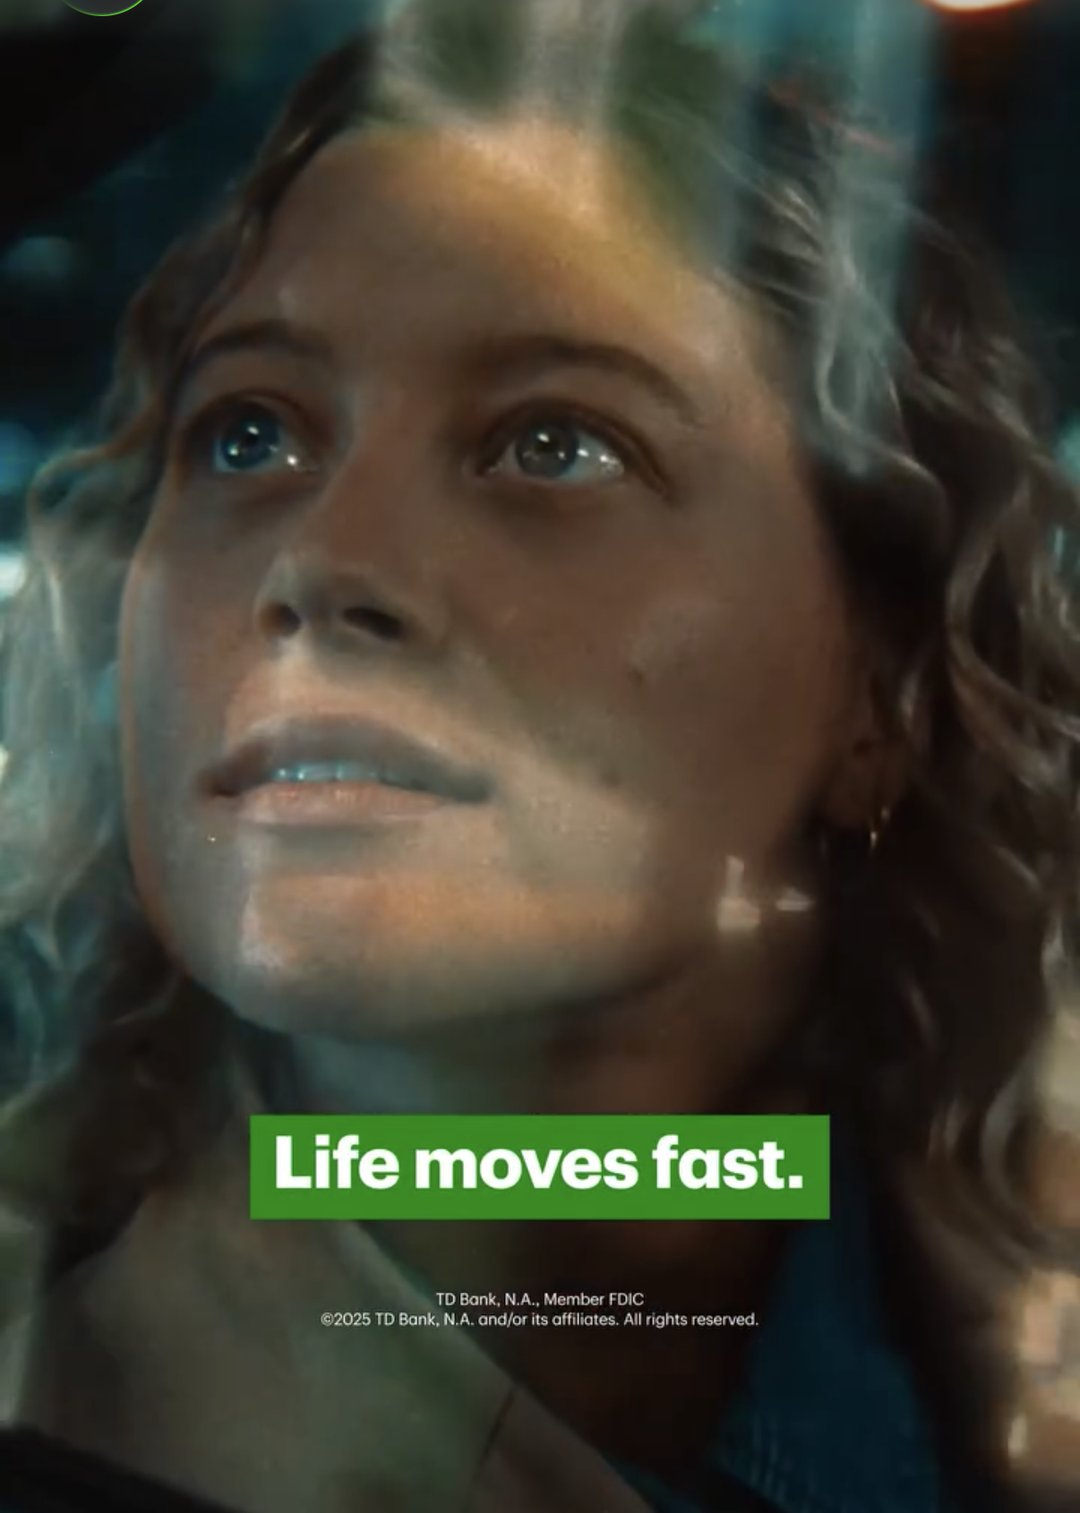
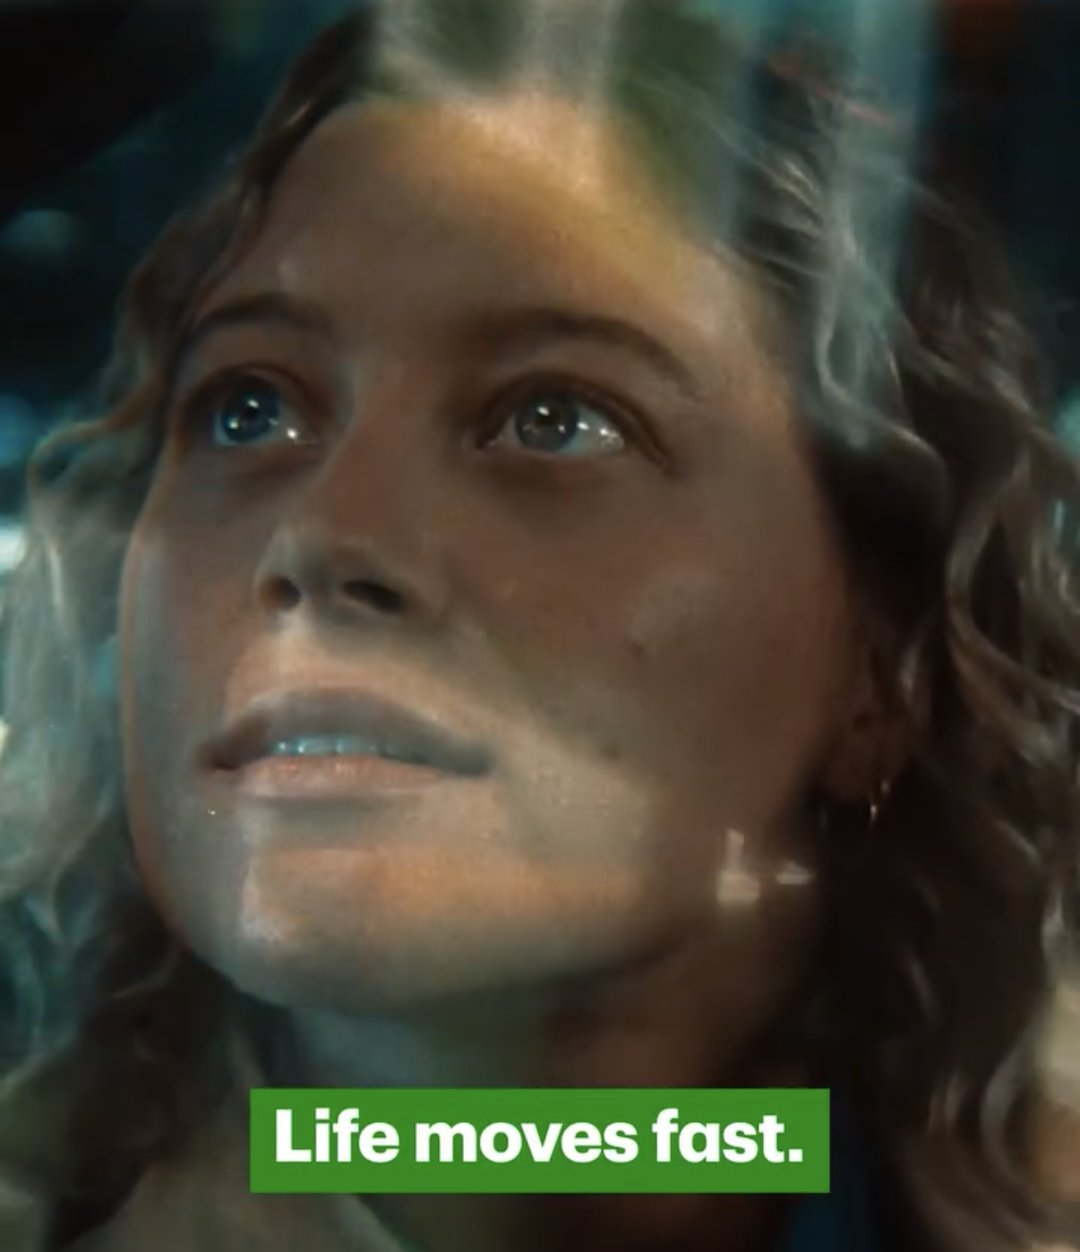
Crop disclosures from two social thumbnails; add About portrait
Re-crop the "Life moves fast" and "Diamond's birthday" creatives just above
their legal disclosure lines and size each thumbnail box to its image so
the fine print no longer shows. Add Susan's headshot as the About-section
portrait, replacing the initials tile.

Claude-Session: https://claude.ai/code/session_01Dv9JHbGgPAKQqDxBru1XCq

diff --git a/index.html b/index.html
@@ -213,7 +213,7 @@
       <!-- Social & Digital — TD credit card rewards × Amazon -->
       <article class="work-card work-card--visual" data-category="social">
         <button class="work-card__open" aria-haspopup="dialog">
-          <span class="work-card__media work-card__media--tall"><img src="assets/work/td-social-rewards.jpg" alt="TD Bank Instagram post: a poodle in a purple tutu with the line &lsquo;Diamond&rsquo;s birthday cost me $0&rsquo;" loading="lazy" /></span>
+          <span class="work-card__media"><img src="assets/work/td-social-rewards.jpg" alt="TD Bank Instagram post: a poodle in a purple tutu with the line &lsquo;Diamond&rsquo;s birthday cost me $0&rsquo;" loading="lazy" style="aspect-ratio:1080/1164" /></span>
           <span class="work-card__body">
             <span class="work-card__tag">Social &amp; Digital</span>
             <h3 class="work-card__title">&ldquo;Diamond&rsquo;s birthday cost me $0.&rdquo;</h3>
@@ -242,7 +242,7 @@
       <!-- Social & Digital — TD Bank app / Life moves fast -->
       <article class="work-card work-card--visual" data-category="social">
         <button class="work-card__open" aria-haspopup="dialog">
-          <span class="work-card__media work-card__media--tall"><img src="assets/work/td-social-life-moves-fast.jpg" alt="TD Bank social still of a woman with the line &lsquo;Life moves fast.&rsquo;" loading="lazy" /></span>
+          <span class="work-card__media"><img src="assets/work/td-social-life-moves-fast.jpg" alt="TD Bank social still of a woman with the line &lsquo;Life moves fast.&rsquo;" loading="lazy" style="aspect-ratio:1080/1252" /></span>
           <span class="work-card__body">
             <span class="work-card__tag">Social &amp; Digital</span>
             <h3 class="work-card__title">&ldquo;Life moves fast.&rdquo;</h3>
@@ -388,9 +388,7 @@
   <section class="about" id="about" aria-labelledby="about-heading">
     <div class="about__inner">
       <div class="about__portrait">
-        <!-- PLACEHOLDER: add a photo at assets/portrait.jpg (roughly square).
-             Until then, this shows your initials. -->
-        <div class="about__photo" aria-hidden="true">SR</div>
+        <img class="about__photo" src="assets/portrait.jpg" alt="Portrait of Susan Rossman" />
       </div>
       <div class="about__body">
         <h2 class="section-head__title" id="about-heading">About</h2>

diff --git a/styles/style.css b/styles/style.css
@@ -290,8 +290,6 @@ main > section { max-width: var(--wrap); margin: 0 auto; padding: var(--section-
 .work-card--visual:hover .work-card__media img { transform: scale(1.03); }
 /* Center the crop when the subject sits in the middle of a tall image */
 .work-card__media--center img { object-position: center center; }
-/* Taller crop box so more of a portrait creative shows in the thumbnail */
-.work-card__media--tall img { aspect-ratio: 4 / 5; }
 
 /* Full creative shown inside the reading panel */
 .detail__figure { margin: 0 0 1.4rem; }
@@ -370,9 +368,7 @@ main > section { max-width: var(--wrap); margin: 0 auto; padding: var(--section-
 }
 .about__photo {
   aspect-ratio: 1; width: 100%; border-radius: var(--radius);
-  background: linear-gradient(145deg, var(--accent), var(--accent-2));
-  display: grid; place-items: center;
-  font-family: var(--font-display); font-size: 3.5rem; font-weight: 600; color: #fff;
+  object-fit: cover; object-position: center top; display: block;
   box-shadow: var(--shadow);
 }
 .about__portrait { position: sticky; top: 6rem; }
